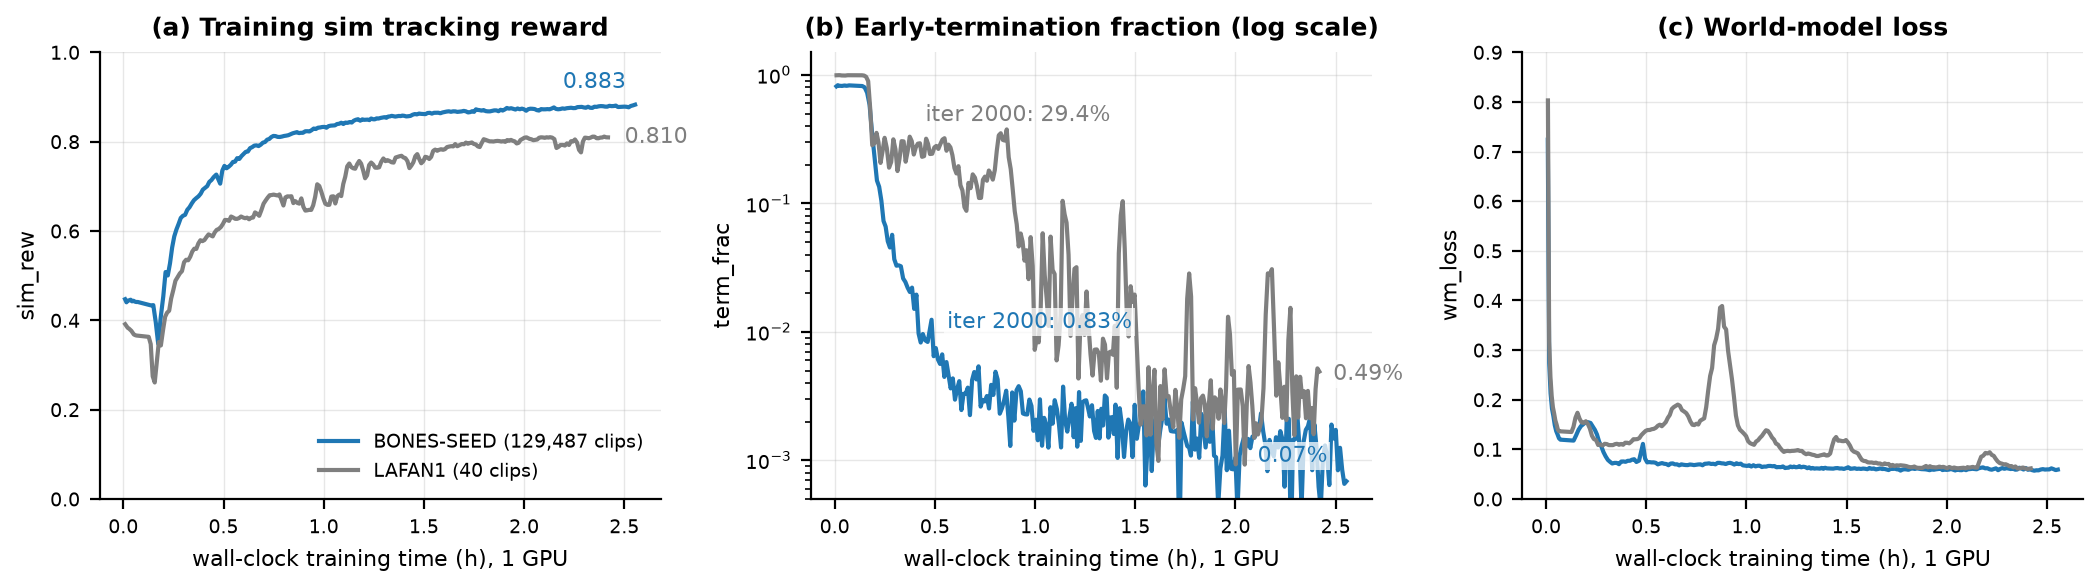
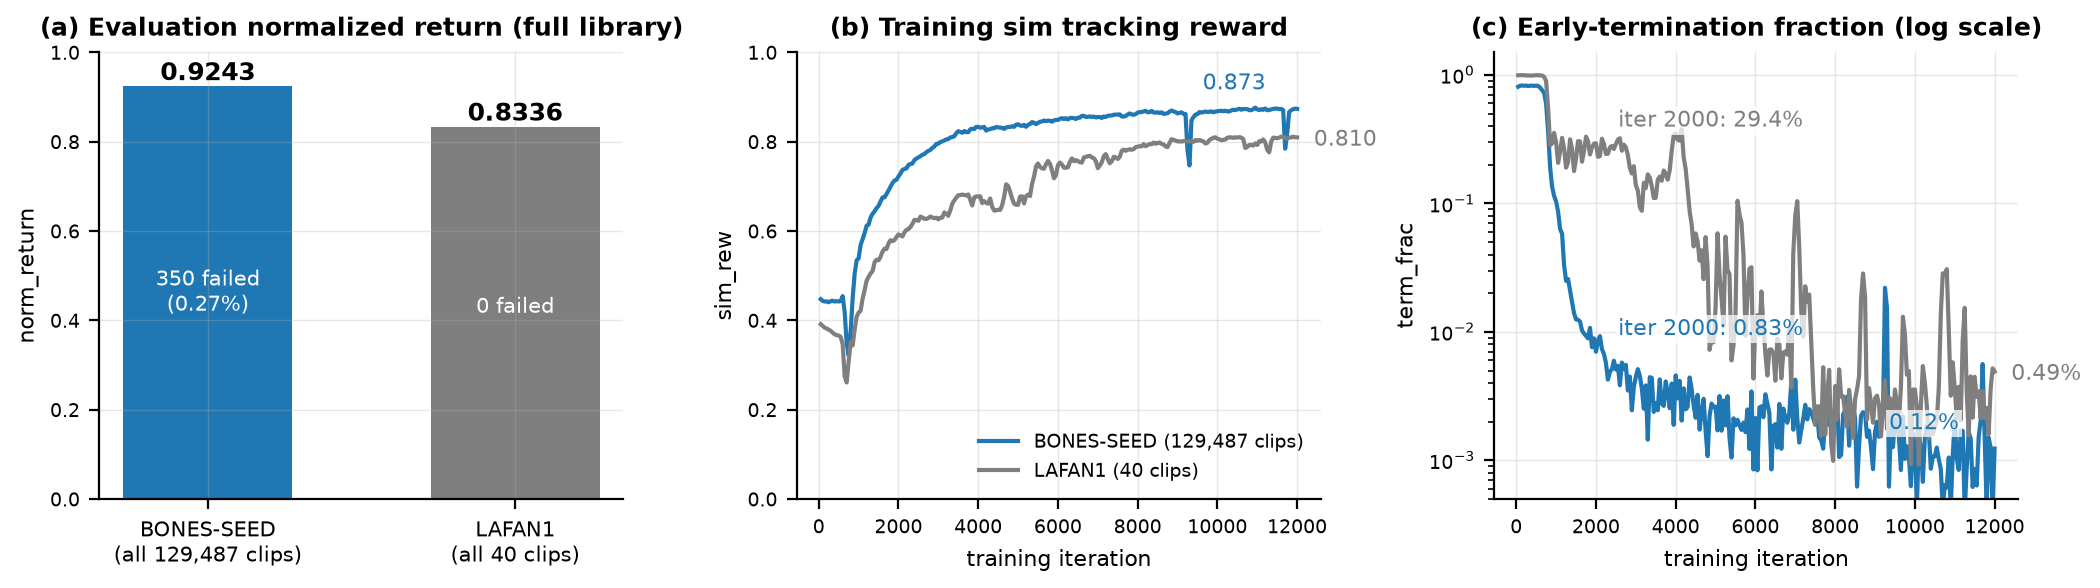
docs: update BONES-SEED results with full-library evaluation
Replaces the 10,000-clip sampled evaluation with a deterministic
full-clip evaluation of all 129,487 kept clips (one env per clip on a
48 GB RTX 4090): norm_return 0.9243, frame-weighted 0.9267, 350 failed
(0.27%), median 0.9528. Training wall time updates to 1.69 h on the
4090. The figure now leads with the evaluation numbers so it matches
the table, and the training curves use iteration on the x-axis so the
cross-hardware comparison stays fair. Notes the independent RTX 5090
reproduction (0.9262 on a 10k subset).

diff --git a/README.md b/README.md
@@ -227,16 +227,16 @@ Configuration: PyPI `unilab 1.5.0`, mjwarp, and 4096 training environments. Eval
 
 ### BONES-SEED library (129,487 clips)
 
-Same configuration on the BONES-SEED G1 compact library (129,487 kept clips, 47.3M frames, 6.72 GB fp16; data pipeline in PR [#12](https://github.com/Motphys/Uni-SuperMimic/pull/12)): one RTX 5090, 12000 iterations, 2.55 h learner wall time. Evaluation covers a random 10,000-clip subset of the kept library (deterministic full-clip rollouts, seed=0); the LAFAN1 row is a same-machine baseline re-run with identical settings.
+Same configuration on the BONES-SEED G1 compact library (129,487 kept clips, 47.3M frames, 6.72 GB fp16): one RTX 4090 (48 GB), 12000 iterations, 1.69 h learner wall time. Evaluation covers the complete kept library — one environment per clip, deterministic full-clip rollouts (a one-shot full-library eval needs a 48 GB card; on smaller cards, evaluate a subset instead). The LAFAN1 row is a baseline run with identical settings.
 
 | policy | eval set | norm_return | frame-weighted | failed clips |
 |---|---|---:|---:|---:|
-| BONES-SEED ckpt_012000.pt | 10,000 random kept clips | 0.9262 | 0.9281 | 30 / 10,000 (0.3%) |
-| LAFAN1 ckpt_012000.pt (same-machine baseline) | all 40 clips | 0.8336 | 0.8366 | 0 / 40 |
+| BONES-SEED ckpt_012000.pt | all 129,487 kept clips | 0.9243 | 0.9267 | 350 / 129,487 (0.27%) |
+| LAFAN1 ckpt_012000.pt (baseline) | all 40 clips | 0.8336 | 0.8366 | 0 / 40 |
 
-![BONES-SEED vs LAFAN1 same-machine training curves through iteration 12000](docs/assets/boneseed_curve.png)
+![BONES-SEED vs LAFAN1: full-library evaluation and training curves through iteration 12000](docs/assets/boneseed_curve.png)
 
-Per-clip distribution on the 10k subset: median 0.9520, P10 0.8360, P90 0.9858. BONES-SEED converges much faster (early-termination 0.83% vs 29.4% at iteration 2000) and finishes +7.3 pt higher in sim tracking reward.
+Per-clip distribution on BONES-SEED: median 0.9528, P10 0.8337, P90 0.9841. BONES-SEED converges much faster (early-termination 0.83% vs 29.4% at iteration 2000) and finishes higher on both training reward and evaluation return. An independent RTX 5090 run reproduces these numbers (0.9262 on a random 10,000-clip subset, within 0.002 of the full-library value).
 
 ## Tests
 

diff --git a/README_zh.md b/README_zh.md
@@ -227,16 +227,16 @@ CUDA_VISIBLE_DEVICES=0 MUJOCO_GL=egl uv run unisupermimic-video \
 
 ### BONES-SEED 动作库（129,487 段）
 
-相同配置在 BONES-SEED G1 紧凑动作库（过滤后 129,487 段、4730 万帧、6.72 GB fp16，数据管线见 PR [#12](https://github.com/Motphys/Uni-SuperMimic/pull/12)）上验证：单张 RTX 5090、12000 轮、learner 墙钟 2.55 小时。评估为从过滤后库中随机抽取的 10,000 段（seed=0，确定性整段回放）；LAFAN1 行为同机同配置的基线重跑。
+相同配置在 BONES-SEED G1 紧凑动作库（过滤后 129,487 段、4730 万帧、6.72 GB fp16）上验证：单张 RTX 4090（48 GB）、12000 轮、learner 墙钟 1.69 小时。评估覆盖过滤后全库——每段一个并行环境、确定性整段回放（一次性全库评估需要 48 GB 显存；显存更小的卡请改用子集评估）。LAFAN1 行为相同配置的基线 run。
 
 | 策略 | 评估集 | norm_return | frame-weighted | 失败段数 |
 |---|---|---:|---:|---:|
-| BONES-SEED ckpt_012000.pt | 随机 10,000 段 | 0.9262 | 0.9281 | 30 / 10,000（0.3%） |
-| LAFAN1 ckpt_012000.pt（同机基线） | 全部 40 段 | 0.8336 | 0.8366 | 0 / 40 |
+| BONES-SEED ckpt_012000.pt | 全部 129,487 段 | 0.9243 | 0.9267 | 350 / 129,487（0.27%） |
+| LAFAN1 ckpt_012000.pt（基线） | 全部 40 段 | 0.8336 | 0.8366 | 0 / 40 |
 
-![截至 12000 轮的 BONES-SEED 与 LAFAN1 同机训练曲线](docs/assets/boneseed_curve.png)
+![截至 12000 轮的 BONES-SEED 与 LAFAN1 全库评估和训练曲线](docs/assets/boneseed_curve.png)
 
-10k 子集逐段分布：中位数 0.9520，P10 0.8360，P90 0.9858。BONES-SEED 收敛显著更快（2000 轮时早停率 0.83%，LAFAN1 同期 29.4%），最终仿真跟踪奖励高 7.3 pt。
+BONES-SEED 逐段分布：中位数 0.9528，P10 0.8337，P90 0.9841。BONES-SEED 收敛显著更快（2000 轮时早停率 0.83%，LAFAN1 同期 29.4%），训练奖励与评估回报均更高。另一次独立 RTX 5090 run 复现了这些数字（随机 1 万段子集 0.9262，与全库结果相差小于 0.002）。
 
 ## 测试
 
